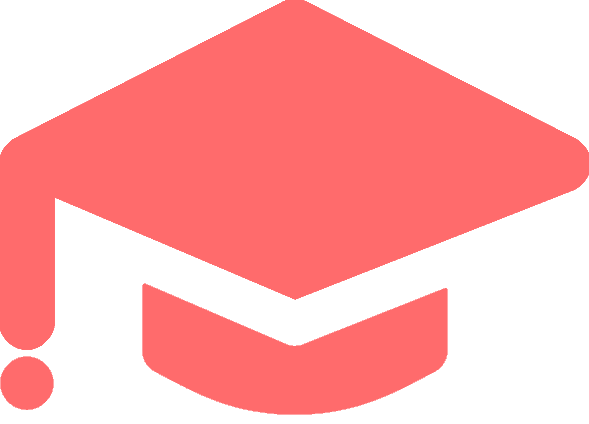
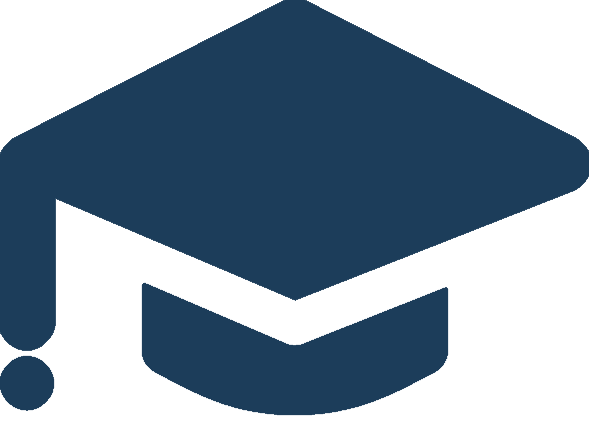
feat:new design (#6)

diff --git a/packages/admin-panel/components/Sidebar.tsx b/packages/admin-panel/components/Sidebar.tsx
@@ -1,13 +1,14 @@
 import React from 'react';
 import { useSetRecoilState } from 'recoil';
 import { coursesFiltersState } from '../state/atoms/coursesFiltersState';
+import Stars from './Stars';
 
 const priceRange=[1000,2000,3000,4000]
 
 const Sidebar: React.FC = () => {
   const setCoursesFilter = useSetRecoilState(coursesFiltersState);
   return (
-    <div className="w-1/4 min-w-[240px]  max-w-[260px] h-[calc(100vh-89px)] border-r border-r-greyVariant text-textColor bg-bgDark sticky top-[89px]">
+    <div className="w-1/4 min-w-[280px]  max-w-[260px] h-[calc(100vh-77px)] border-r border-r-greyVariant text-textColor  sticky top-[77px]">
       <div className="m-4 flex justify-between items-center">
         <h2 className="text-2xl font-bold">Filters</h2>
         <h4
@@ -24,7 +25,7 @@ const Sidebar: React.FC = () => {
           clear
         </h4>
       </div>
-      <ul className="p-6 pt-0 flex flex-col gap-3 ">
+      <ul className="p-6 pt-0 flex flex-col mt-8 gap-12 text-lightText ">
         <div>
           <h3 className="text-xl font-semibold ">Ratings</h3>
           <div className="mt-2 flex items-center gap-1">
@@ -37,7 +38,7 @@ const Sidebar: React.FC = () => {
                 })
               }
             />
-            4 Stars and above
+            <Stars rating={4} filled={true}/> and above
           </div>
           <div className='flex items-center gap-1'>
             <input
@@ -49,7 +50,7 @@ const Sidebar: React.FC = () => {
                 })
               }
             />
-            3 Stars and above
+             <Stars rating={3} filled={true}/> and above
           </div>
           <div className='flex items-center gap-1'>
             <input
@@ -61,7 +62,7 @@ const Sidebar: React.FC = () => {
                 })
               }
             />
-            2 Stars and above
+             <Stars rating={2} filled={true}/> and above
           </div>
           <div className='flex items-center gap-1'>
             <input
@@ -73,13 +74,13 @@ const Sidebar: React.FC = () => {
                 })
               }
             />
-            1 Star and above
+             <Stars rating={1} filled={true}/> and above
           </div>
         </div>
         <div>
           <h3 className="text-xl font-semibold ">Price</h3>
           <div>
-          <input type="range" className=" accent-primary bg-white w-full h-2 rounded-lg appearance-none cursor-pointer " id="points" name="points" min="0" max="4"defaultValue={0} onChange={(e)=>{
+          <input type="range" className=" accent-textColor bg-bgDarker w-full h-2 rounded-lg appearance-none cursor-pointer " id="points" name="points" min="0" max="4"defaultValue={0} onChange={(e)=>{
             setCoursesFilter(filters=>{
               return {...filters,price:priceRange[Number(e.target.value)]}
             })

diff --git a/packages/admin-panel/components/Navbar.tsx b/packages/admin-panel/components/Navbar.tsx
@@ -28,26 +28,26 @@ const Navbar: React.FC = () => {
   useOutsideClick(menuRef, secondRef, closeMenu);
 
   return (
-    <header className="bg-bgDark sticky top-0 z-10">
+    <header className=" sticky top-0 z-10 bg-bgColor">
       <nav className="flex justify-between p-3 border-b-greyVariant border-b items-center ">
         <div className="flex gap-1 items-center relative">
           <Image src={logo} alt="logo" width={50} height={50} className="m-2" />
-          <div className="bg-primary min-w-[4px] min-h-[full] h-16 rounded-sm border-none relative"></div>
-          <h1 className="text-3xl text-primary font-medium m-2">seekSage</h1>
+          {/* <div className="bg-textColor min-w-[4px] min-h-[full] h-16 rounded-sm border-none relative"></div> */}
+          <h1 className="text-[26px] text-textColor font-bold">seekSage</h1>
         </div>
         <div className="flex gap-3">
           {admin.isLoggedIn ? (
             <div className="relative">
               <div
-                className="p-2 hover:bg-bgDarker rounded-full cursor-pointer"
+                className="p-2 hover:bg-bgDark rounded-full cursor-pointer"
                 onClick={(event) => setIsMenuOptions(!isMenuOptions)}
                 ref={secondRef}
               >
-                <RxHamburgerMenu size={25} className="text-primary" />
+                <RxHamburgerMenu size={25} className="text-textColor" />
               </div>
               {isMenuOptions && (
                 <div
-                  className="flex flex-col absolute bg-bgColor border border-greyVariant right-4 top-10 z-10 w-40 rounded-lg"
+                  className="flex flex-col absolute bg-bgColor border text-textColor border-greyVariant right-4 top-10 z-10 w-40 rounded-lg"
                   ref={menuRef}
                 >
                   <Link

diff --git a/packages/admin-panel/components/courses/CourseCard.tsx b/packages/admin-panel/components/courses/CourseCard.tsx
@@ -3,18 +3,26 @@ import { ICourse } from '../../types';
 import Image from 'next/image';
 import ProgressiveLoader from '../ProgressiveLoader';
 import Link from 'next/link';
+import Stars from '../Stars';
 
 const CourseCard = ({ course }: { course: ICourse }) => {
   return (
-    <Link href={`/${course._id}`} className="shadow-md cursor-pointer text-textColor w-56 h-fit rounded-xl hover:bg-bgDark overflow-hidden">
-      <div className="w-full h-36 relative">
+    <Link
+      href={`/${course._id}`}
+      // shadow-lg shadow-[#082032]
+      className=" cursor-pointer text-textColor w-80 h-fit overflow-hidden shadow-lg shadow-opacity-50"
+    >
+      <div className="w-full h-40 relative">
         <ProgressiveLoader imgSrc={course.imgLink} />
       </div>
-      <div className="p-2">
-        <h2 className="text-lg font-semibold text-textColor ">{course.title}</h2>
-        <div className='flex justify-between mt-2 items-center'>
-          <h3 className='text-base'>₹{course.price}</h3>
-          <p className='text-sm'>Rating: {course.rating} stars</p>
+      <div className="p-4 py-2">
+        <h2 className="text-[22px] font-bold text-textColor ">{course.title}</h2>
+        <p className="text-sm text-lightText line-clamp-3 ">
+          {course.description}
+        </p>
+        <div className="flex justify-between mt-2 items-center">
+          <h3 className="text-base font-semibold">₹{course.price}</h3>
+          <Stars rating={course.rating} />
         </div>
       </div>
     </Link>

diff --git a/packages/admin-panel/tailwind.config.js b/packages/admin-panel/tailwind.config.js
@@ -12,13 +12,26 @@ module.exports = {
   ],
   theme: {
     extend: {
+      // colors:{
+      //   bgColor:"#2C394B",
+      //   // bgColor:"#FAFAFA",
+      //   bgDark:"#082032",
+      //   bgDarker:"#EBEBEB",
+      //   textColor:"#F0F0F0",
+      //   lightText:"#B0B0B0",
+      //   primary:"#FF6B6C",
+      //   greyVariant:"#DADAD9",
+      //   secondary:"#5B5F97"
+      // },
       colors:{
-        bgColor:"#FAFAFA",
-        bgDark:"#F5F5F5",
+        bgColor:"#F5FCFF",
+        // bgColor:"#FAFAFA",
+        bgDark:"#D4E5FF",
         bgDarker:"#EBEBEB",
-        textColor:"#1E1E24",
+        textColor:"#1c3d5a",
+        lightText:"#4d6c82",
         primary:"#FF6B6C",
-        greyVariant:"#DADAD9",
+        greyVariant:"#AEBFD6",
         secondary:"#5B5F97"
       }
     },

diff --git a/packages/admin-panel/components/Stars.tsx b/packages/admin-panel/components/Stars.tsx
@@ -1,0 +1,18 @@
+import React from 'react'
+import {AiFillStar,AiOutlineStar } from 'react-icons/ai'
+
+const Stars:React.FC<{rating:number , filled?:boolean}> =({rating , filled})=> {
+  return (
+    <div className='flex'>
+        { !filled ?
+            [...Array(5)].map((item,index)=>{
+                if(index<rating){
+                    return <AiFillStar key={`star-${index}`}color='#FFD700'/>
+                }else return <AiOutlineStar />
+            }) : [...Array(rating)].map((item,index)=><AiFillStar key={`star-${index}`} color='#FFD700'/>)
+        }
+    </div>
+  )
+}
+
+export default Stars

diff --git a/packages/admin-panel/pages/[courseId].tsx b/packages/admin-panel/pages/[courseId].tsx
@@ -71,7 +71,7 @@ const CoursePage = () => {
                 <ProgressiveLoader imgSrc={selectedCourse.imgLink} />
               </div>
               <div className="flex justify-between mt-2 items-center">
-                <h1 className="text-2xl font-medium">{selectedCourse.title}</h1>
+                <h1 className="text-2xl font-bold">{selectedCourse.title}</h1>
                 <p className="text-xl">₹{selectedCourse.price}</p>
               </div>
               <div className="mt-2">

diff --git a/packages/admin-panel/pages/styles.css b/packages/admin-panel/pages/styles.css
@@ -1,10 +1,11 @@
 @tailwind base;
 @tailwind components;
 @tailwind utilities;
-@import url('https://fonts.googleapis.com/css2?family=Montserrat&display=swap');
+@import url('https://fonts.googleapis.com/css2?family=Poppins&display=swap');
+
 html {
   -webkit-text-size-adjust: 100%;
-  font-family: 'Montserrat';
+  font-family: 'Poppins', sans-serif;
   line-height: 1.5;
   tab-size: 4;
   scroll-behavior: smooth;

diff --git a/packages/admin-panel/components/courses/CoursesGrid.tsx b/packages/admin-panel/components/courses/CoursesGrid.tsx
@@ -31,7 +31,7 @@ const CoursesGrid: React.FC = () => {
   }, []);
 
   return (
-    <main className="p-8 text-textColor flex flex-wrap gap-12 h-fit w-fit">
+    <main className="p-8 px-12 text-textColor flex flex-wrap gap-16 h-fit w-fit">
       {filteredCourses?.length
         ? filteredCourses.map((course) => (
             <CourseCard key={course._id} course={course} />

diff --git a/packages/admin-panel/components/ProgressiveLoader.tsx b/packages/admin-panel/components/ProgressiveLoader.tsx
@@ -24,7 +24,7 @@ const ProgressiveLoader: React.FC<Props> = ({ imgSrc }) => {
 
   return !loader ? (
     !error ? (
-      <NextImage src={imgSrc} alt="gg" className="rounded-t-xl" fill />
+      <NextImage src={imgSrc} alt="gg" fill />
     ) : (
       <NextImage
         src={

diff --git a/packages/admin-panel/pages/index.tsx b/packages/admin-panel/pages/index.tsx
@@ -9,7 +9,7 @@ import RequireAuth from '../components/RequireAuth';
 export function Index() {
   return (
     <RequireAuth>
-      <main className="flex h-full">
+      <main className="flex h-full bg-bgColor p-0">
         <Sidebar />
         <CoursesGrid />
       </main>
